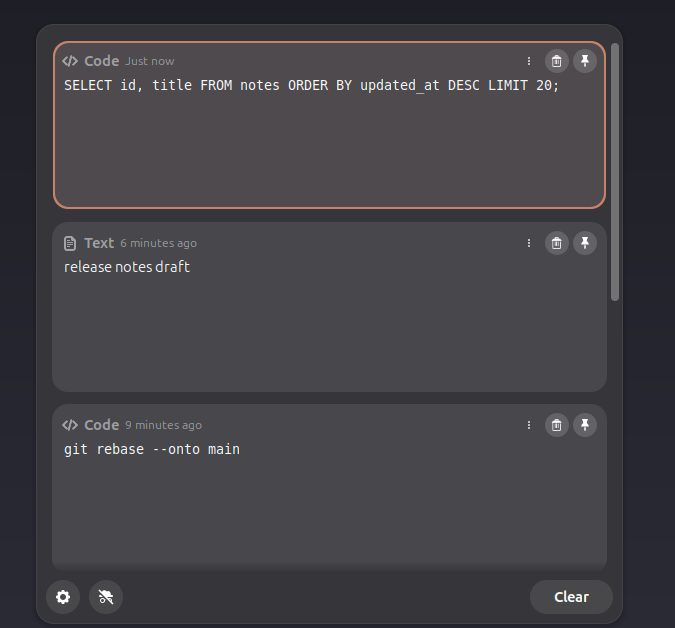
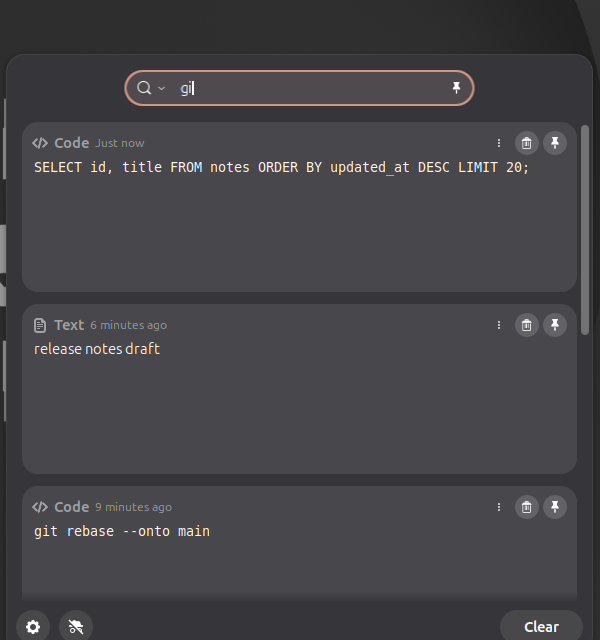
docs: show the shortcut popping the panel up in the copyous GIF
The clip started with the dialog already open, so it never showed the thing the extension is for. It now opens on the plain desktop, the panel fades up where the pointer is after Ctrl+Space, and the search filter narrows the history. The capture runs against the system wallpaper instead of a flat colour.

diff --git a/README.md b/README.md
@@ -38,9 +38,9 @@ It is **not** affiliated with or endorsed by the upstream author. The fork prese
 - **D-Bus interface** (`org.gnome.Shell.Extensions.Copyous`) to show, hide, toggle and clear history.
 - **82 GSettings keys** and **8 translations** (de, fr, it, pl, pt_BR, ru, tr, zh_CN).
 
-<p align="center"><img src="docs/screenshots/demo.gif" alt="The clipboard popup opening on a shortcut and filtering as you type" width="900"></p>
+<p align="center"><img src="docs/screenshots/demo.gif" alt="The clipboard popup fading in over the desktop after a shortcut, then filtering as you type" width="720"></p>
 
-<p align="center"><em><b>In the clip:</b> <kbd>Ctrl</kbd>+<kbd>Space</kbd> opens the clipboard popup at the pointer; typing <code>git</code> narrows the history to the entry that matches. <b>What it shows:</b> the shortcut-driven popup in the layout this fork ships (vertical, 600 px wide, search hidden until you type) over a local clipboard history.</em></p>
+<p align="center"><em><b>In the clip:</b> <kbd>Ctrl</kbd>+<kbd>Space</kbd> opens the clipboard popup at the pointer and the panel fades up over the desktop; typing <code>git</code> then narrows the history to the entry that matches. <b>What it shows:</b> the shortcut-driven popup in the layout this fork ships (vertical, 600 px wide, search hidden until you type) over a local clipboard history — no window to focus, no menu to open.</em></p>
 
 ## 🧰 Prerequisites
 

diff --git a/README.zh-CN.md b/README.zh-CN.md
@@ -38,9 +38,9 @@
 - **D-Bus 接口**（`org.gnome.Shell.Extensions.Copyous`），可显示、隐藏、切换与清空历史。
 - **82 个 GSettings 键**与 **8 种语言翻译**（de、fr、it、pl、pt_BR、ru、tr、zh_CN）。
 
-<p align="center"><img src="docs/screenshots/demo.gif" alt="快捷键唤出剪贴板面板并在输入时筛选" width="900"></p>
+<p align="center"><img src="docs/screenshots/demo.gif" alt="快捷键唤出的剪贴板面板在桌面上淡入，并在输入时筛选" width="720"></p>
 
-<p align="center"><em><b>动图内容：</b>按 <kbd>Ctrl</kbd>+<kbd>Space</kbd> 在指针处弹出剪贴板面板；输入 <code>git</code>，历史立刻收窄到匹配的那一条。<b>展示的功能：</b>快捷键唤出的竖排面板（600 px 宽，未输入时搜索框隐藏），数据全部来自本地剪贴板历史。</em></p>
+<p align="center"><em><b>动图内容：</b>按 <kbd>Ctrl</kbd>+<kbd>Space</kbd>，剪贴板面板在指针处弹出、在桌面上淡入；再输入 <code>git</code>，历史立刻收窄到匹配的那一条。<b>展示的功能：</b>快捷键唤出的竖排面板（600 px 宽，未输入时搜索框隐藏），数据全部来自本地剪贴板历史——不用切窗口，也不用开菜单。</em></p>
 
 ## 🧰 前置依赖
 
